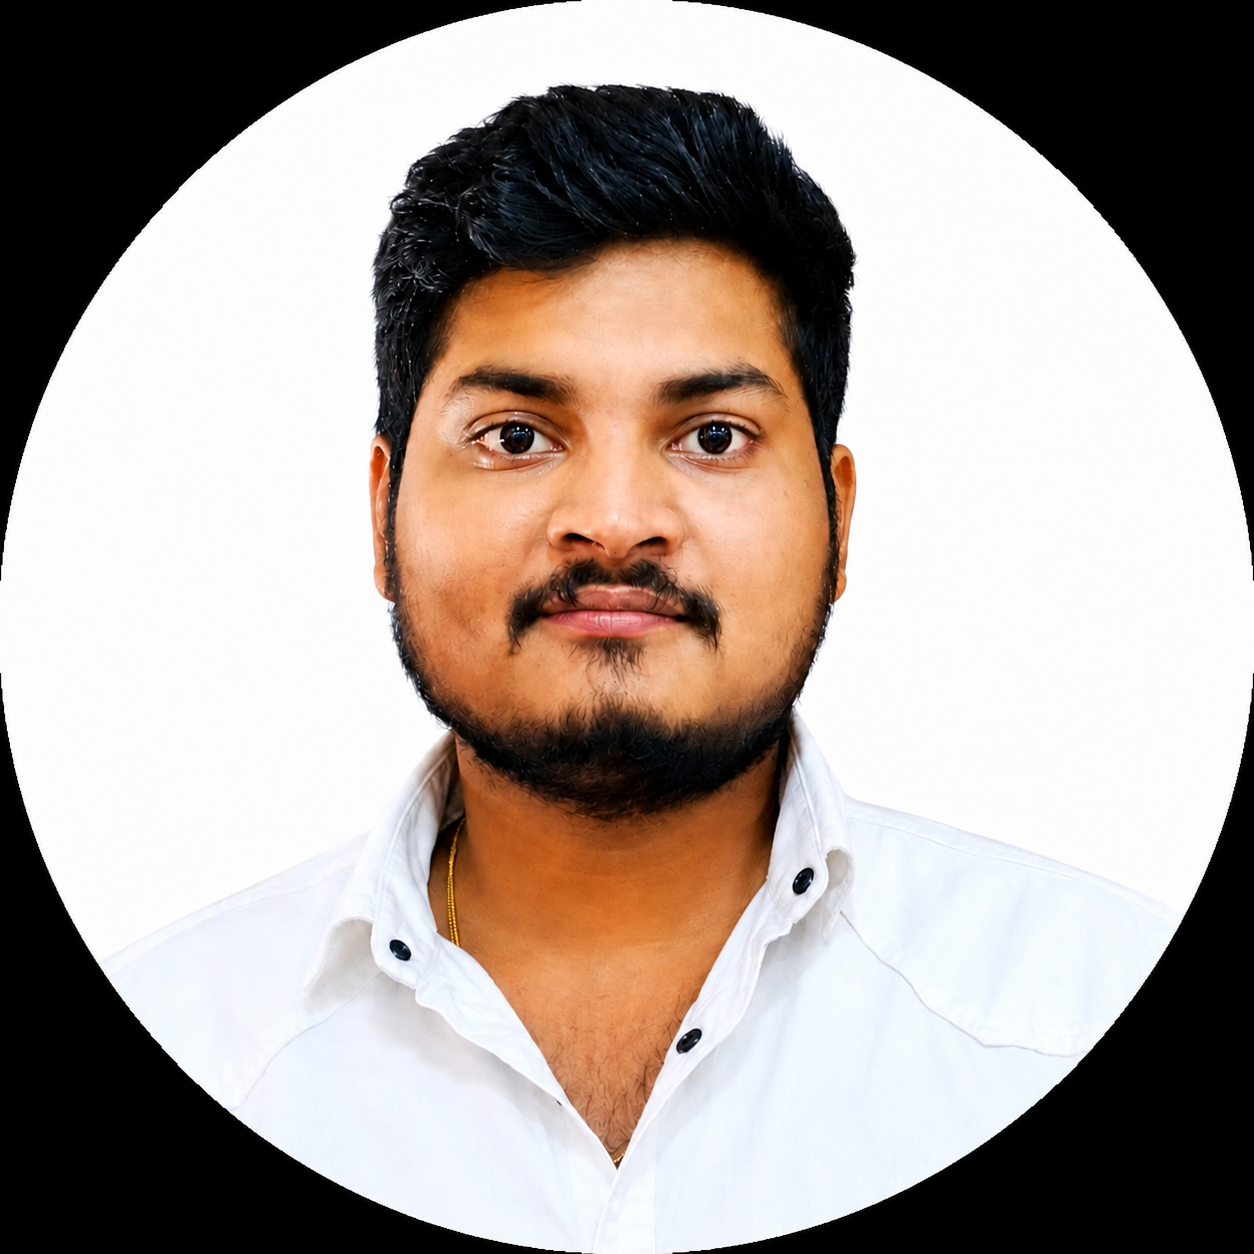
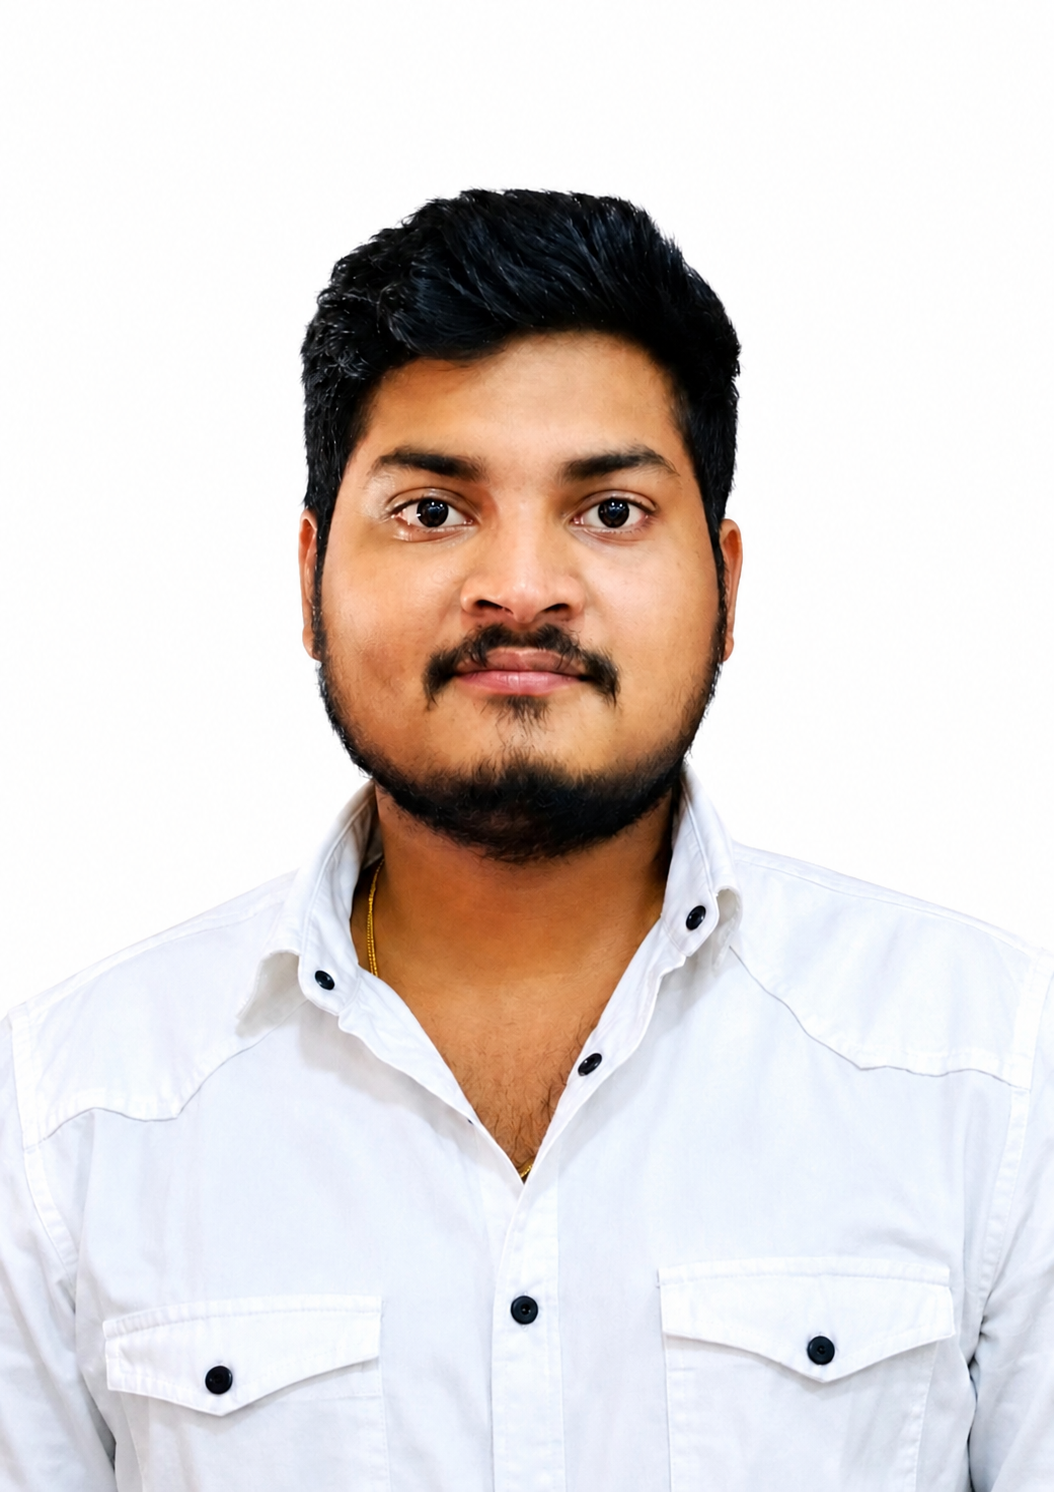
Add hero photo

diff --git a/styles.css b/styles.css
@@ -104,30 +104,39 @@ main { max-width: var(--container); margin: 0 auto; padding: 0 32px; }
 @media (max-width: 1080px) { .hero-grid { grid-template-columns: 1fr; } }
 .hero-avatar {
   position: relative;
-  width: 84px;
-  height: 84px;
-  margin-bottom: 22px;
+  width: 180px;
+  height: 180px;
+  margin-bottom: 24px;
 }
 .hero-avatar img {
   width: 100%;
   height: 100%;
   border-radius: 50%;
   object-fit: cover;
-  object-position: center top;
+  object-position: center 30%;
   display: block;
-  border: 1px solid var(--line-2);
-  filter: grayscale(20%);
-  transition: filter .3s ease, transform .2s ease;
+  border: 2px solid var(--line-2);
+  filter: grayscale(15%);
+  transition: filter .3s ease, transform .4s ease;
 }
-.hero-avatar:hover img { filter: grayscale(0%); transform: translateY(-1px); }
+.hero-avatar:hover img {
+  filter: grayscale(0%);
+  transform: scale(1.03);
+}
 .hero-avatar-ring {
   position: absolute;
-  inset: -4px;
+  inset: -5px;
   border-radius: 50%;
-  border: 1.5px solid;
-  opacity: 0.45;
+  border: 2px solid;
+  opacity: 0.35;
   pointer-events: none;
-  box-shadow: 0 0 16px color-mix(in oklch, var(--accent) 30%, transparent);
+  box-shadow:
+    0 0 0 4px color-mix(in oklch, var(--accent) 22%, transparent),
+    0 0 35px color-mix(in oklch, var(--accent) 15%, transparent);
+}
+
+@media (max-width: 1080px) {
+  .hero-avatar { width: 130px; height: 130px; margin-bottom: 20px; }
 }
 
 .meta-row {
